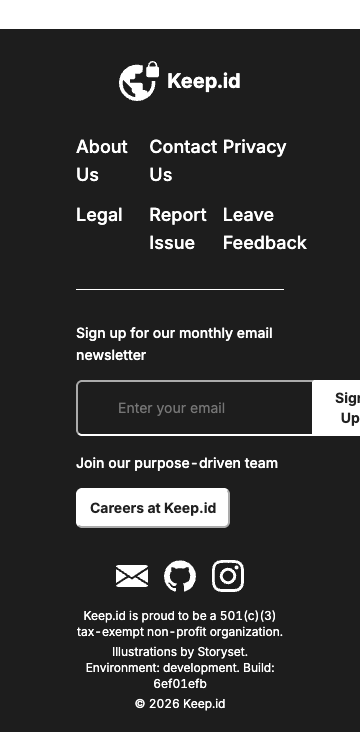
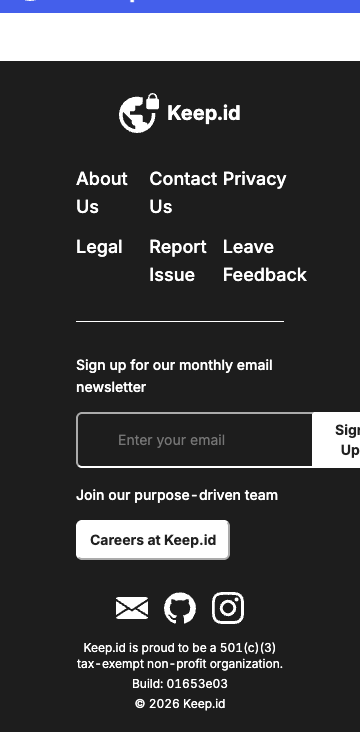
Simplify footer build label

Changed region(s): [[0.2139, 0.4208, 0.7944, 0.9617], [0.0, 0.0, 1.0, 0.3907], [0.8556, 0.5109, 1.0, 0.6612]]

diff --git a/src/components/Footer.tsx b/src/components/Footer.tsx
@@ -8,7 +8,6 @@ import GithubLogo from '../static/images/github-logo.svg';
 import InstagramLogo from '../static/images/instagram.svg';
 import Logo from '../static/images/logo.svg';
 
-const currentMode = import.meta.env.MODE;
 const Footer = () => {
   const mailchimpUrl =
     'https://keep.us7.list-manage.com/subscribe/post?u=9896e51b9ee0605d5e6745f82&amp;id=f16b440eb5';
@@ -175,7 +174,7 @@ const Footer = () => {
           </div>
           <p className="tw-text-xs tw-text-white tw-text-center my-0">Keep.id is proud to be a 501(c)(3) tax-exempt non-profit organization.</p>
           <p className="tw-text-xs tw-text-white tw-text-center my-1" title={`Build ${currentBuildSha}`}>
-            Illustrations by Storyset. Environment: {currentMode}. Build: {buildVersionLabel(currentBuildSha)}
+            Build: {buildVersionLabel(currentBuildSha)}
           </p>
           <p className="tw-text-xs tw-text-white tw-text-center my-0">&copy; {new Date().getFullYear()} Keep.id</p>
         </div>
